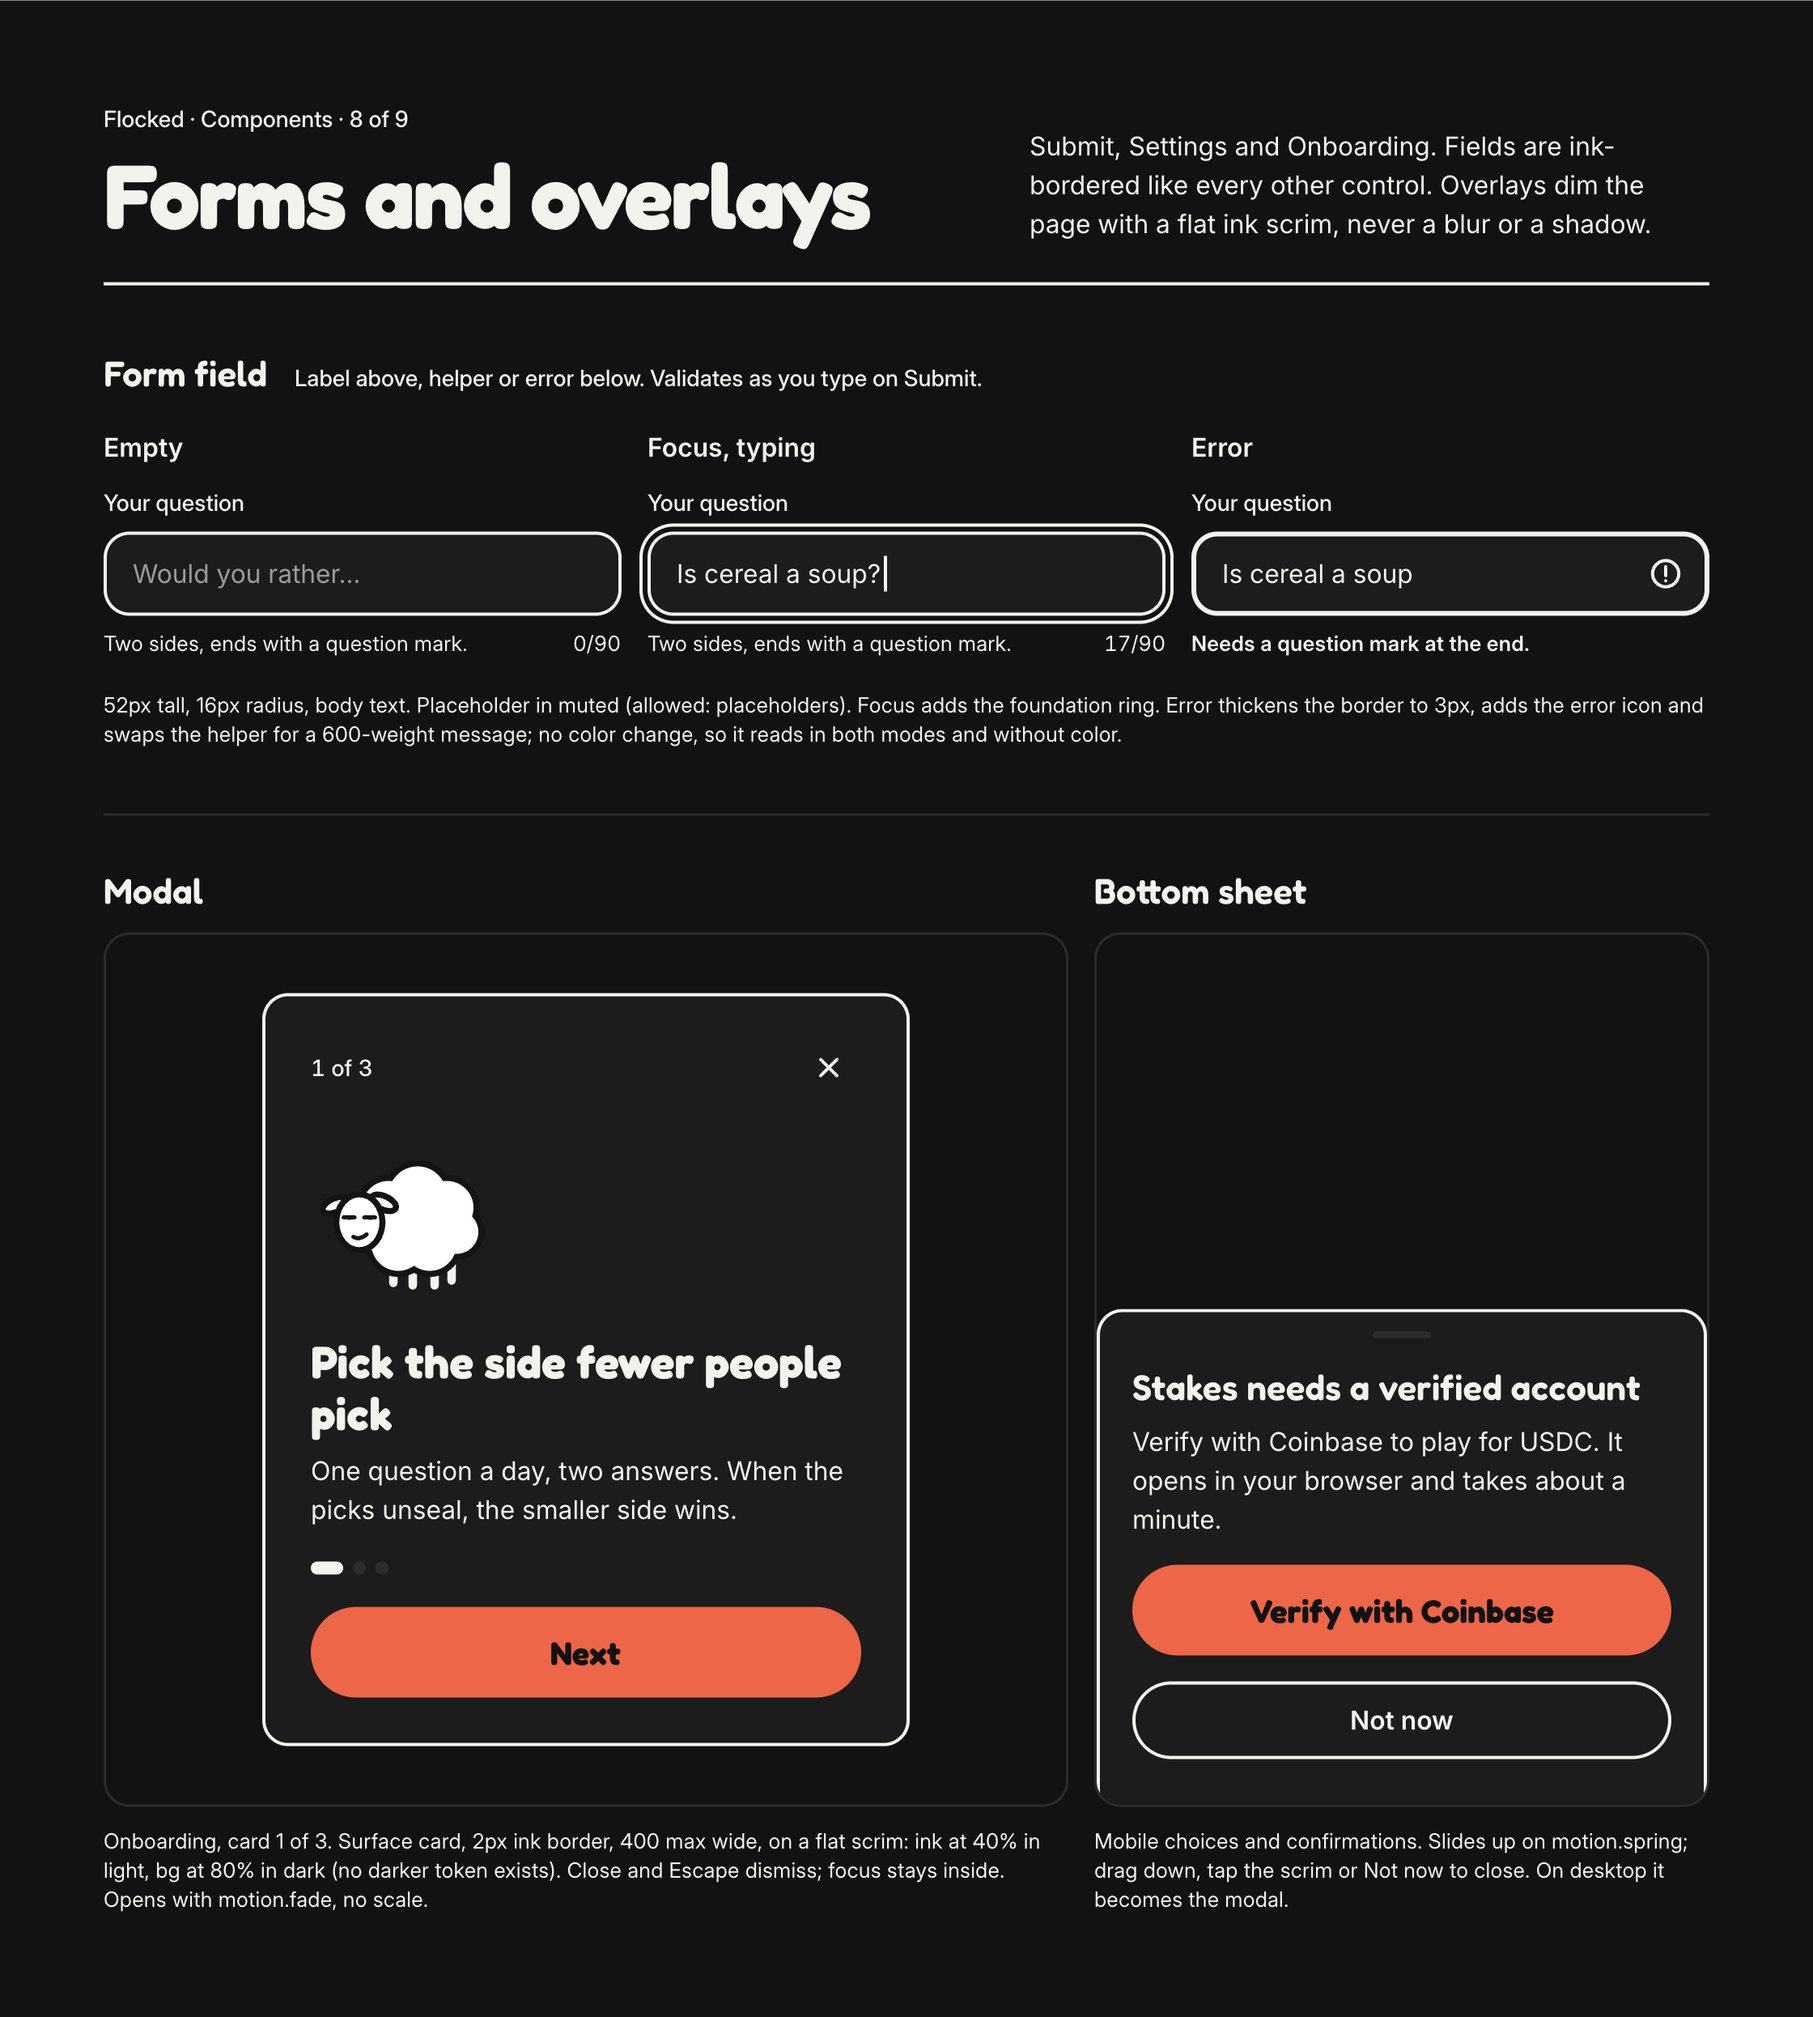
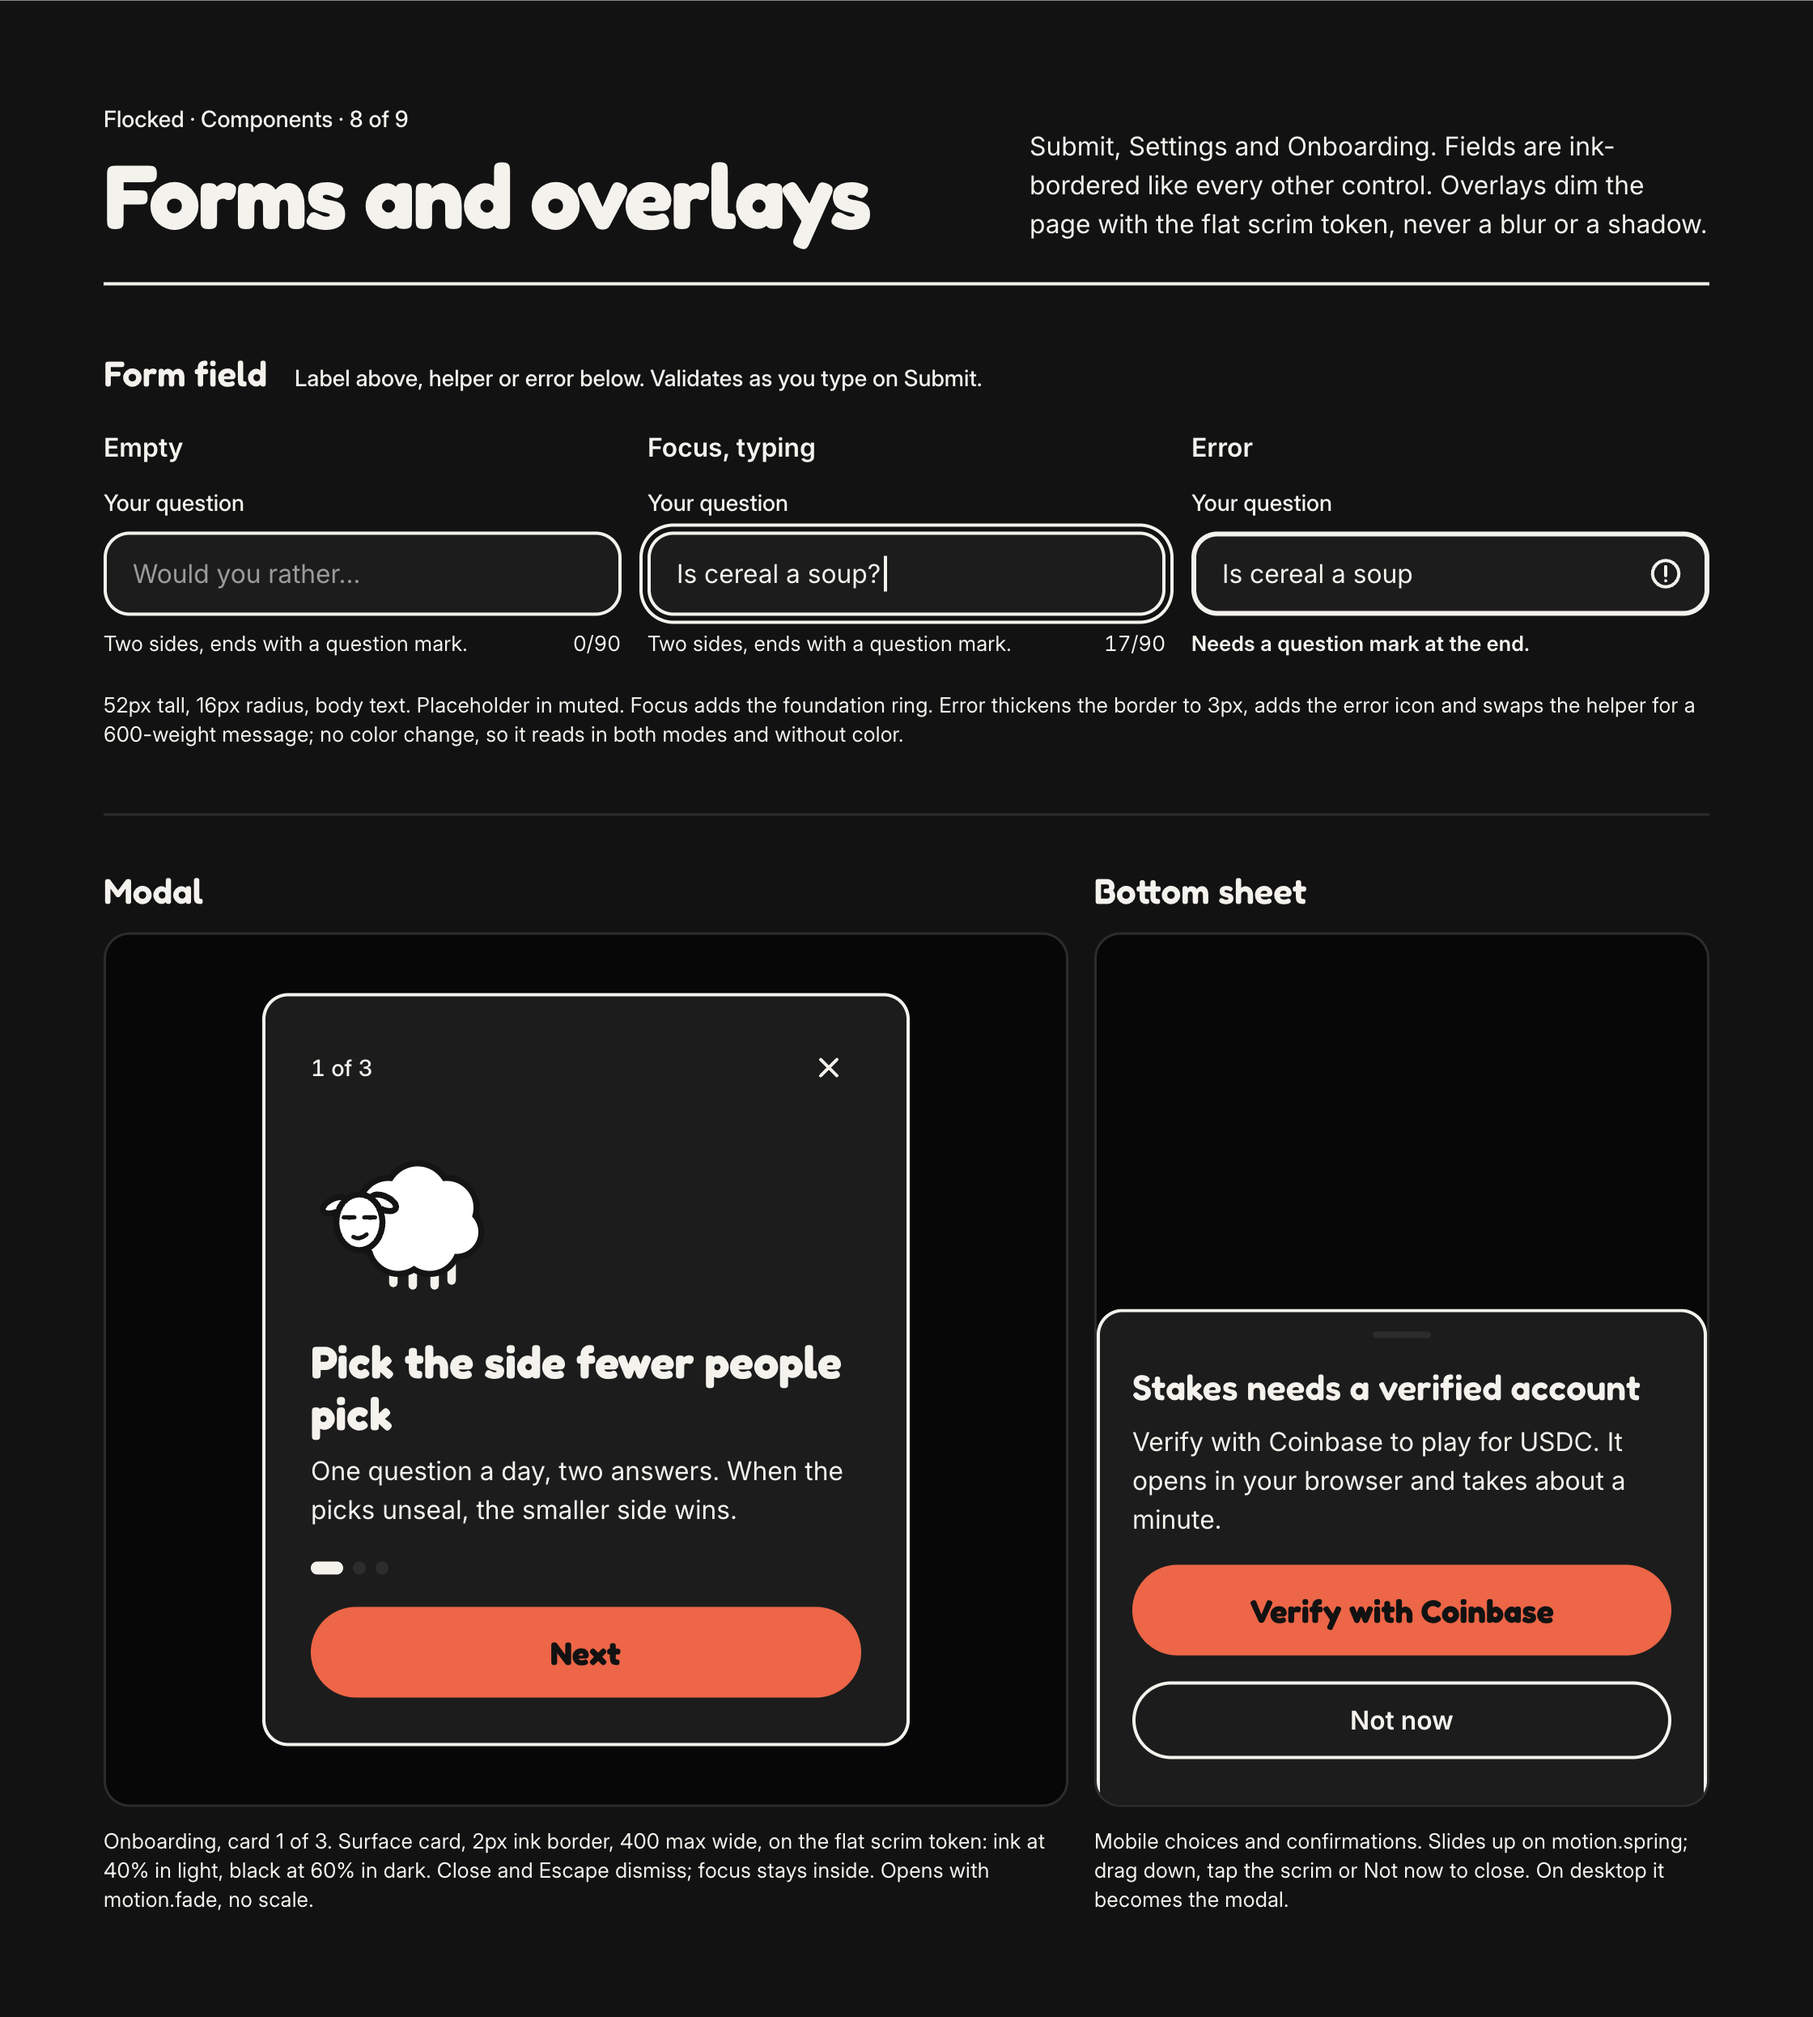
Apply Oct 8 colour decisions: muted #6E6E6E, scrim token
Light muted moves to #6E6E6E (4.77:1 on bg). A scrim token joins both
schemes (light #141414 at 40%, dark #000000 at 60%) as 8-digit hex, with
the schema and test updated; dark accentInk is pinned at #121212. Paper
tokens, the Foundations color sheet and the Components sheets that use
muted or a scrim are updated and re-exported.

diff --git a/packages/shared/test/tokens.test.ts b/packages/shared/test/tokens.test.ts
@@ -20,12 +20,12 @@ describe('design-tokens.json (wave-2 plan P2.3)', () => {
       bg: '#FAF7F2',
       surface: '#FFFFFF',
       ink: '#141414',
-      muted: '#8A8A8A',
+      muted: '#6E6E6E',
       line: '#E6E1D8',
       accent: '#FF4F2E',
       accentInk: '#FFFFFF',
+      scrim: '#14141466', // #141414 at 40%
     });
-    // Dark `accentInk` isn't in the design language; W2-C picked it (spec issue for Z).
     expect(tokens.color.dark).toEqual({
       bg: '#121212',
       surface: '#1C1C1C',
@@ -33,7 +33,8 @@ describe('design-tokens.json (wave-2 plan P2.3)', () => {
       muted: '#9A9A9A',
       line: '#2C2C2C',
       accent: '#FF5A3A',
-      accentInk: tokens.color.dark.accentInk,
+      accentInk: '#121212',
+      scrim: '#00000099', // #000000 at 60%
     });
   });
 
@@ -52,5 +53,10 @@ describe('design-tokens.json (wave-2 plan P2.3)', () => {
       color: { ...tokens.color, light: { ...tokens.color.light, bg: '#faf7f2' } },
     };
     expect(DesignTokensSchema.safeParse(bad).success).toBe(false);
+    const opaqueScrim = {
+      ...tokens,
+      color: { ...tokens.color, dark: { ...tokens.color.dark, scrim: '#000000' } },
+    };
+    expect(DesignTokensSchema.safeParse(opaqueScrim).success).toBe(false);
   });
 });

diff --git a/packages/shared/src/tokens.ts b/packages/shared/src/tokens.ts
@@ -3,6 +3,8 @@
 import { z } from 'zod';
 
 const Hex = z.string().regex(/^#[0-9A-F]{6}$/, 'uppercase #RRGGBB');
+/** Colour with alpha, for the scrim: uppercase `#RRGGBBAA`. */
+const HexAlpha = z.string().regex(/^#[0-9A-F]{8}$/, 'uppercase #RRGGBBAA');
 const Px = z.number().nonnegative();
 
 /** One colour scheme. Spec: Design_Language.md "Color tokens". */
@@ -14,6 +16,8 @@ export const ColorSchemeTokensSchema = z.strictObject({
   line: Hex,
   accent: Hex,
   accentInk: Hex,
+  /** Dims the page behind sheets and dialogs. */
+  scrim: HexAlpha,
 });
 
 export const TypeRoleTokenSchema = z.strictObject({

diff --git a/docs/design/screens.md b/docs/design/screens.md
@@ -27,12 +27,13 @@ boundaries. Ratios are computed from the token hex values.
 | --- | --- | --- | --- |
 | ink on bg | 17.24 | 16.77 | Pass, all text |
 | ink on surface | 18.42 | 15.25 | Pass, all text |
-| muted on bg | 3.23 | 6.66 | **Light fails body AA.** Light muted only for text ≥ 24px, placeholders, disabled controls and decoration. Secondary information uses ink at a smaller role. Dark passes. Spec issue: proposed light muted `#6E6E6E` (4.77 on bg, 5.10 on surface) |
-| muted on surface | 3.45 | 6.06 | Same rule as muted on bg |
-| accentInk on accent | 3.28 | 6.04 | **Light passes large text only.** Every label on accent is Fredoka 700 ≥ 20px (the `cta` role), which counts as large bold text. Dark `accentInk` is `#121212`, the designer's pick (spec issue), and passes AA for all text |
+| muted on bg | 4.77 | 6.66 | Pass, all text. Light muted is `#6E6E6E` (owner decision, Oct 8, 2026; was `#8A8A8A` at 3.23) |
+| muted on surface | 5.10 | 6.06 | Pass, all text |
+| accentInk on accent | 3.28 | 6.04 | **Light passes large text only.** Every label on accent is Fredoka 700 ≥ 20px (Design_Language "Typography"). Dark `accentInk` is `#121212` (Oct 8 decision) and passes AA for all text. Numbers on the winning option card stay Inter 600 tabular at 32px (large text, passes 3:1; see W3-C handoff) |
 | accent text on bg | 3.07 | 6.04 | Light passes large text only. Accent-colored text only at ≥ 24px (UNFLOCKED uses the 28px `result` role) |
 | ink on accent | 5.62 | n/a | Pass. The fallback if a small label ever has to sit on the accent |
 | line on bg | 1.22 | 1.34 | Decorative dividers only. Anything interactive uses an ink border (2px, 17:1) |
+| scrim | `#141414` 40% | `#000000` 60% | Not a text color. Dims the page behind sheets and dialogs; the sheet or dialog keeps its 2px ink border |
 
 ## Components
 

diff --git a/docs/design/README.md b/docs/design/README.md
@@ -41,8 +41,8 @@ changes, change it in both places, and only after a Z-raised decision for colors
 
 ## Rules that came out of contrast checks
 
-- Light `muted` (#8A8A8A) never carries body, label or caption text. It's for text ≥ 24px, placeholders, disabled
-  controls and decoration.
+- Light `muted` is `#6E6E6E` (Oct 8 decision, 4.77:1 on bg), so it may carry secondary text at any role. Primary
+  information stays ink.
 - Text on the accent uses the `cta` role (Fredoka 700, 20px) or larger.
 - Accent-colored text is ≥ 24px.
 - Interactive boundaries use ink borders. `line` is only for dividers.
@@ -61,8 +61,8 @@ From the `Components` page. Code follows these unless a sheet says otherwise.
 - Controls get an ink border; read-only boxes (fixed stake, empty state, final-at chip) get a `line` border.
 - The accent appears only on: the primary CTA, the winning option card, the winning split bar and mini split, the
   UNFLOCKED result line, the live stray-streak pill, and the smug sheep's glint.
-- Scrim: ink at 40% over the page in light. Dark has no token darker than `bg`, so the sheet uses `bg` at 80% (spec
-  issue in `docs/sessions/W2-C.md`).
+- Scrim: the `scrim` token (`--color-scrim`, light `#141414` at 40%; `--color-dark-scrim`, dark `#000000` at 60%),
+  flat, never a blur. In the JSON it's 8-digit hex (`#14141466`, `#00000099`).
 - Percentages follow the Decision log rounding: winner rounds down, loser rounds up, "<1%" and ">99%" at the ends.
   A split-bar fill never drops below 24px.
 
